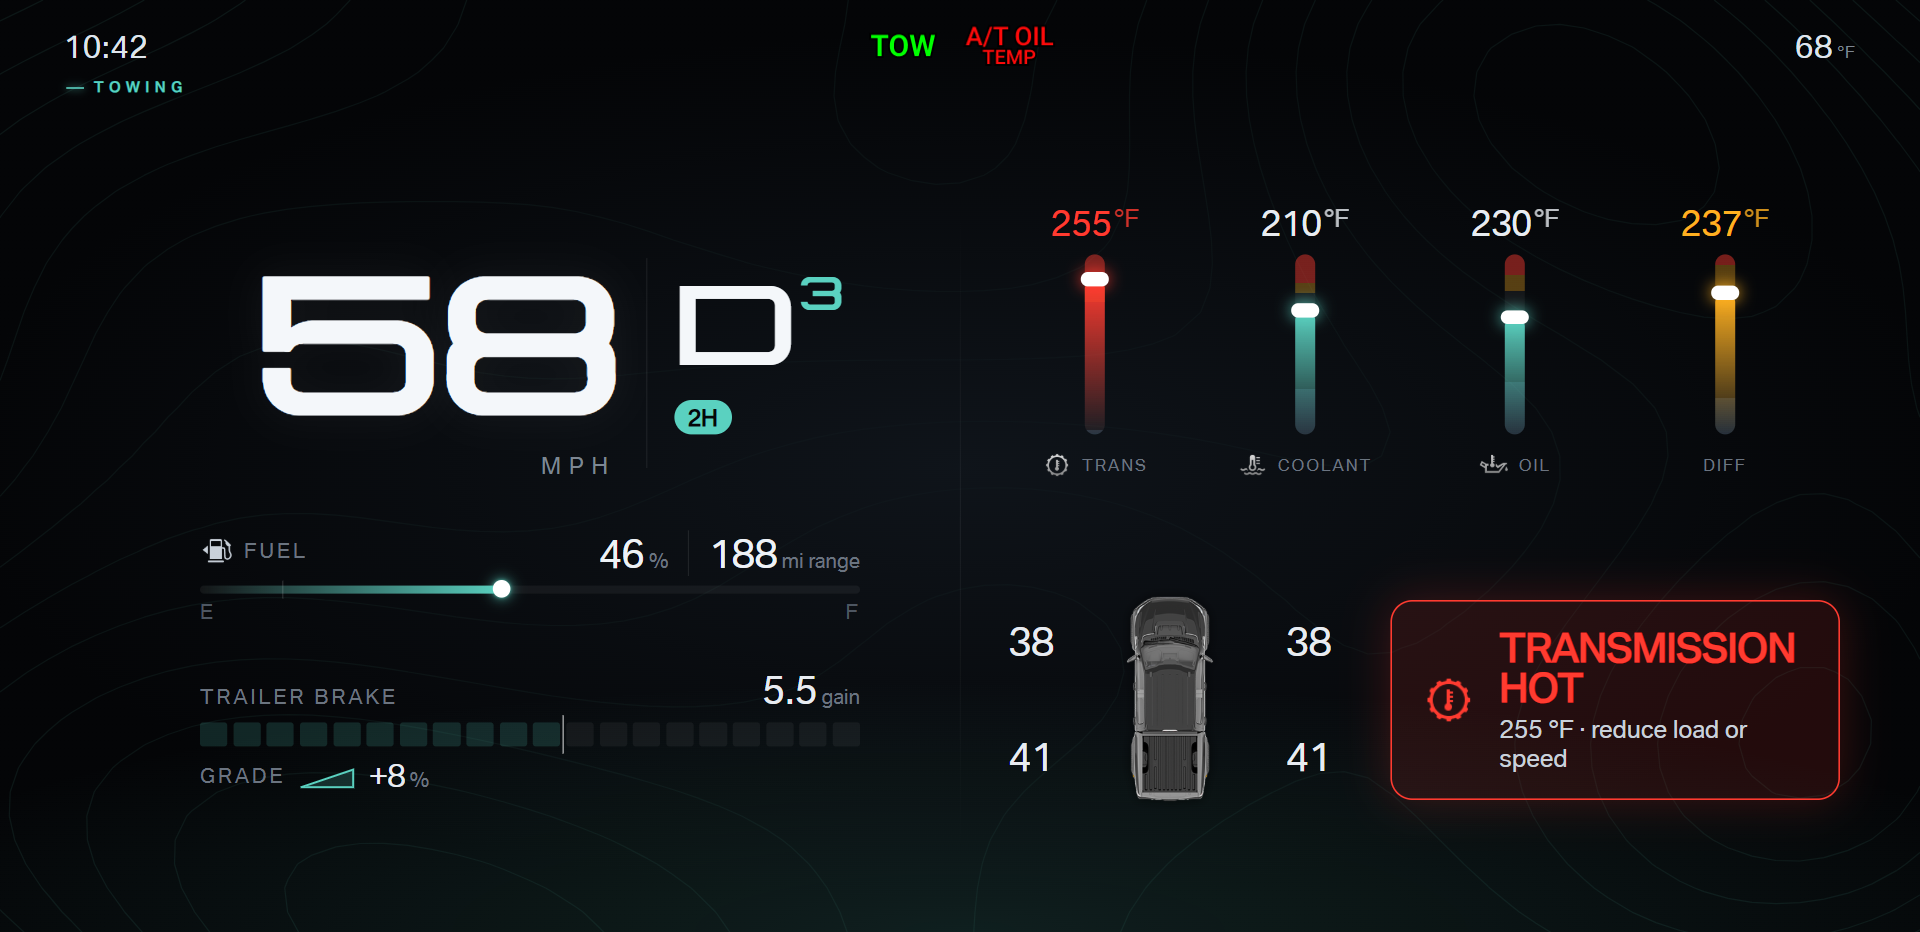
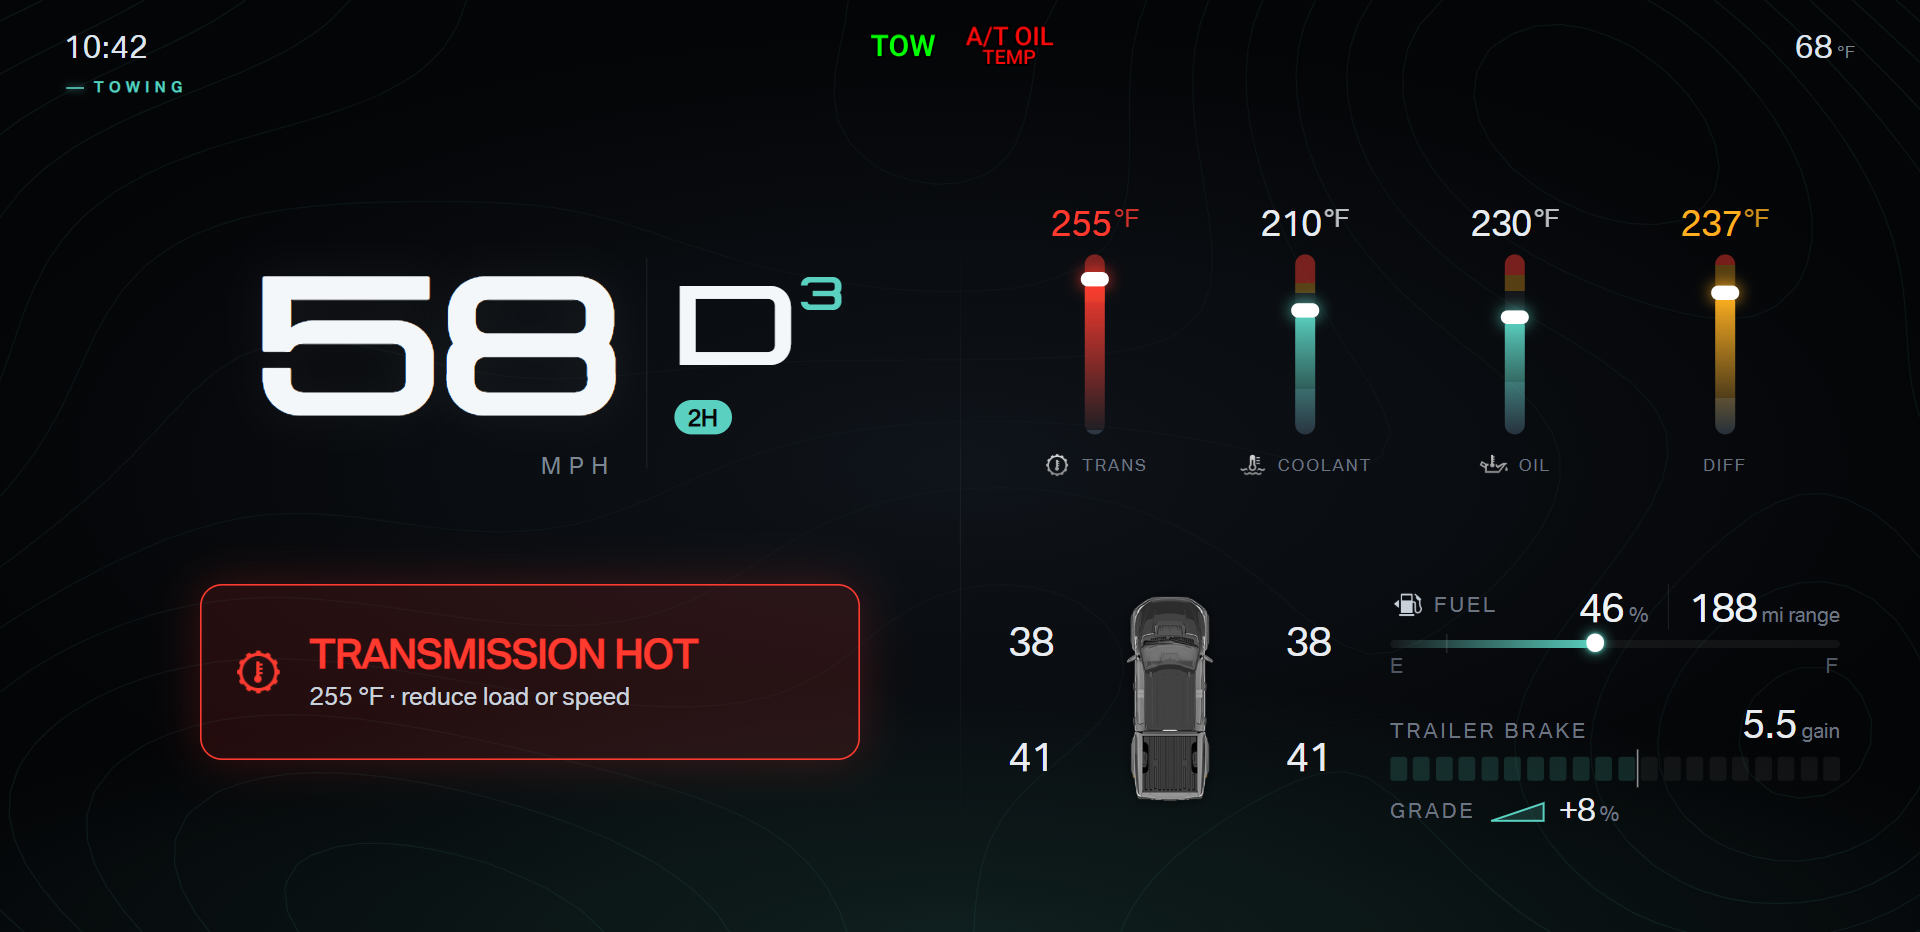
Swap the towing trip card with fuel and trailer brake
Move the paged card under the speed and put fuel and trailer brake beside
the tire pressures. While braking, BRAKING replaces the trailer brake
title so the narrower panel stays on one line.

Changed region(s): [[0.0938, 0.5601, 0.4688, 0.8712], [0.7188, 0.6223, 0.9688, 0.9024]]

diff --git a/design/round-05/tow.html b/design/round-05/tow.html
@@ -16,8 +16,10 @@
   /* Trailer brake: gain is always visible; while the brake pedal is pressed, output segments light up to the live level. */
   .brake .top { display: flex; align-items: baseline; gap: 18px; margin-bottom: 14px; }
   .brake .top .rv { margin-left: auto; }
-  .brake .state { font: 600 var(--small) "BMW Type Global"; letter-spacing: 4px; color: var(--accent); visibility: hidden; }
-  .brake.on .state { visibility: visible; }
+  .brake .top > * { white-space: nowrap; }
+  .brake .state { font: 600 var(--small) "BMW Type Global"; letter-spacing: 4px; color: var(--accent); display: none; }
+  .brake.on .state { display: inline; }
+  .brake.on .top > .k { display: none; }
   .brake.on .top .rv { color: var(--accent); }
   .brake .segs { position: relative; display: flex; gap: 6px; height: 24px; }
   .brake .segs i { flex: 1; border-radius: 3px; background: rgba(255, 255, 255, .05); }
@@ -41,8 +43,8 @@
 <script src="../round-02/kit.js"></script>
 <script src="../round-04/kit4.js"></script>
 <script>
-// Left half from towing A: speed, gear, fuel, trailer brake. Right half from towing B: temperature columns
-// over tire pressures and the paged card.
+// Left half from towing A: speed, gear, and the paged card. Right half from towing B: temperature columns
+// over tire pressures, fuel, and trailer brake.
 const s = state("tow");
 s.pages = ["trip", "economy", "vehicle"];
 s.page = +(params.get("page") || 0) % s.pages.length;
@@ -56,8 +58,8 @@ place(`
   <div class="abs sunit" data-field="vehicleSpeedUnit">MPH</div>
   <div class="abs gdiv"></div>
   <div class="abs gblk">${gear(s, 120)}${chip(s)}</div>
-  ${fuel4(s, "left:200px;top:530px;width:660px")}
-  <div class="abs brake${s.braking ? " on" : ""}" style="left:200px;top:670px;width:660px"
+  ${card(s, "left:200px;top:584px;width:660px;height:176px")}
+  <div class="abs brake${s.braking ? " on" : ""}" style="left:1390px;top:704px;width:450px"
     data-field="trucksTrailerGain (setting); live output: no firmware field yet (brake pedal + controller output needed)">
     <div class="top"><span class="k">TRAILER BRAKE</span><span class="state">BRAKING</span>
       <span class="rv">${s.braking ? s.output.toFixed(1) : s.gain.toFixed(1)}<span class="u">${s.braking ? `of ${s.gain.toFixed(1)}` : "gain"}</span></span></div>
@@ -70,7 +72,7 @@ place(`
   <div class="abs cols">${["trans", "coolant", "oil", "diff"].map(k => { const T = s.T[k];
     return `<div class="tc temp ${T.state}" data-field="${T.field}">${tempText(T)}${tempCol(T, 180)}<div class="lab">${T.icon ? `${tIcon(T, 30)}<span class="k">${T.label}</span>` : tIcon(T)}</div></div>`; }).join("")}</div>
   ${tires4(s, 230, "left:990px;top:584px;width:360px")}
-  ${card(s, "left:1390px;top:600px;width:450px;height:200px")}`);
+  ${fuel4(s, "left:1390px;top:584px;width:450px")}`);
 finish(s);
 </script>
 </body>

diff --git a/design/round-05/index.html b/design/round-05/index.html
@@ -16,7 +16,7 @@
 </head>
 <body>
 <h1>F150 cluster · Design round 5 · Towing hybrid</h1>
-<p>Left half from towing A: speed, gear, fuel, and trailer brake. Right half from towing B: temperature columns over tire pressures and the paged card.
+<p>Left half from towing A: speed, gear, and the paged card (alerts take the card position). Right half from towing B: temperature columns over tire pressures, fuel, and trailer brake.
   Builds on the <a href="../round-04/">round 4</a> kit. Daily A and Daily B both stay as separate layouts.</p>
 <ul>
   <li>Trailer brake: the gain setting is always visible, with a marker on the output scale. While the brake pedal is pressed, the segments light up to the live output and the panel shows BRAKING.</li>
